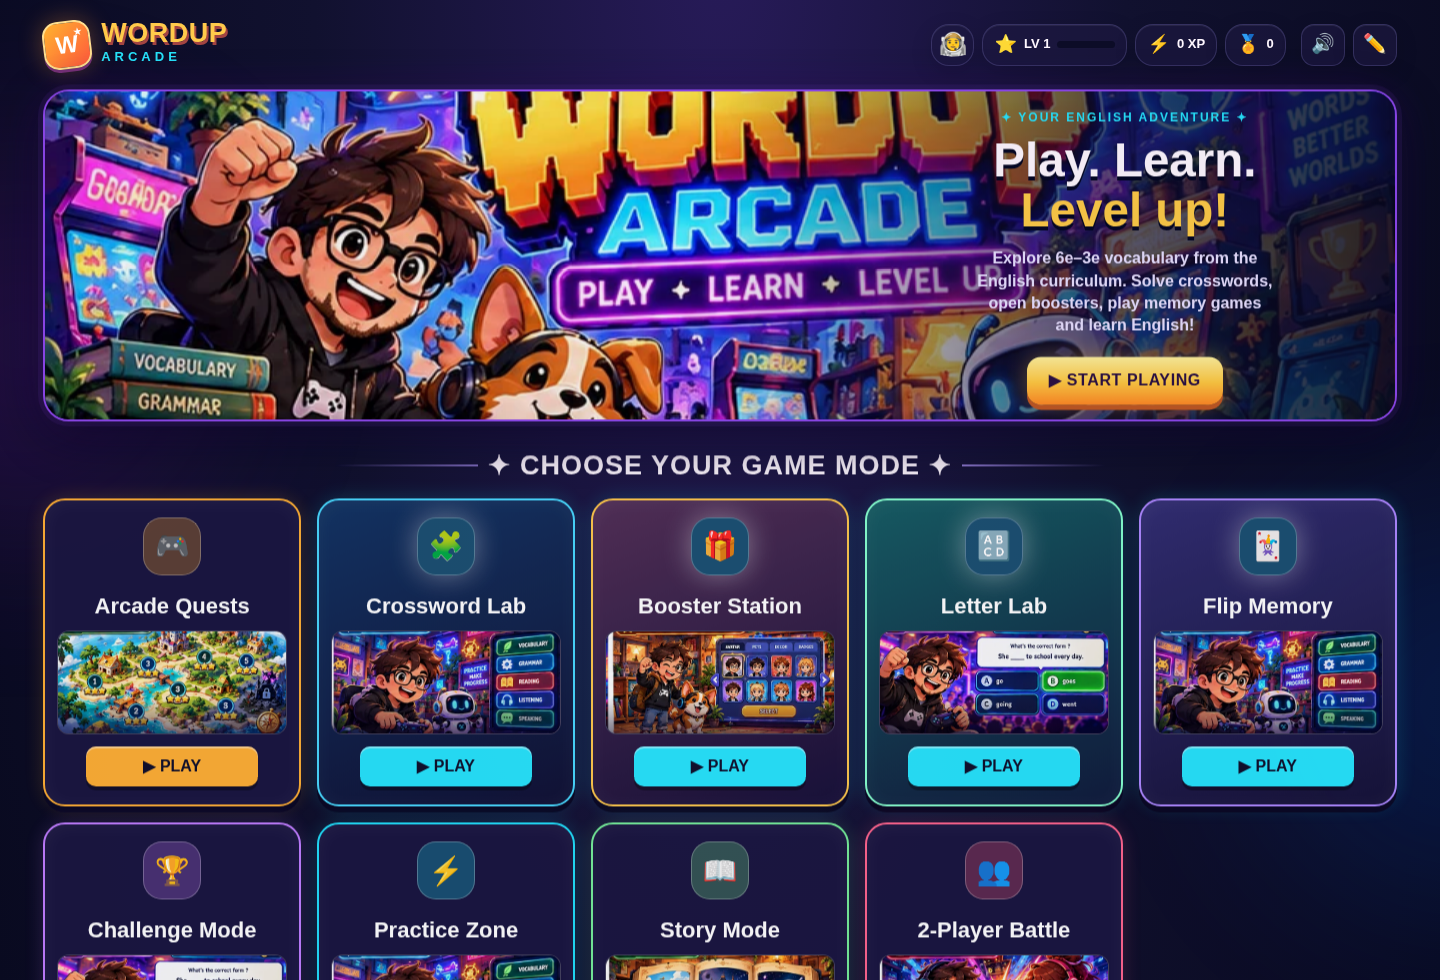
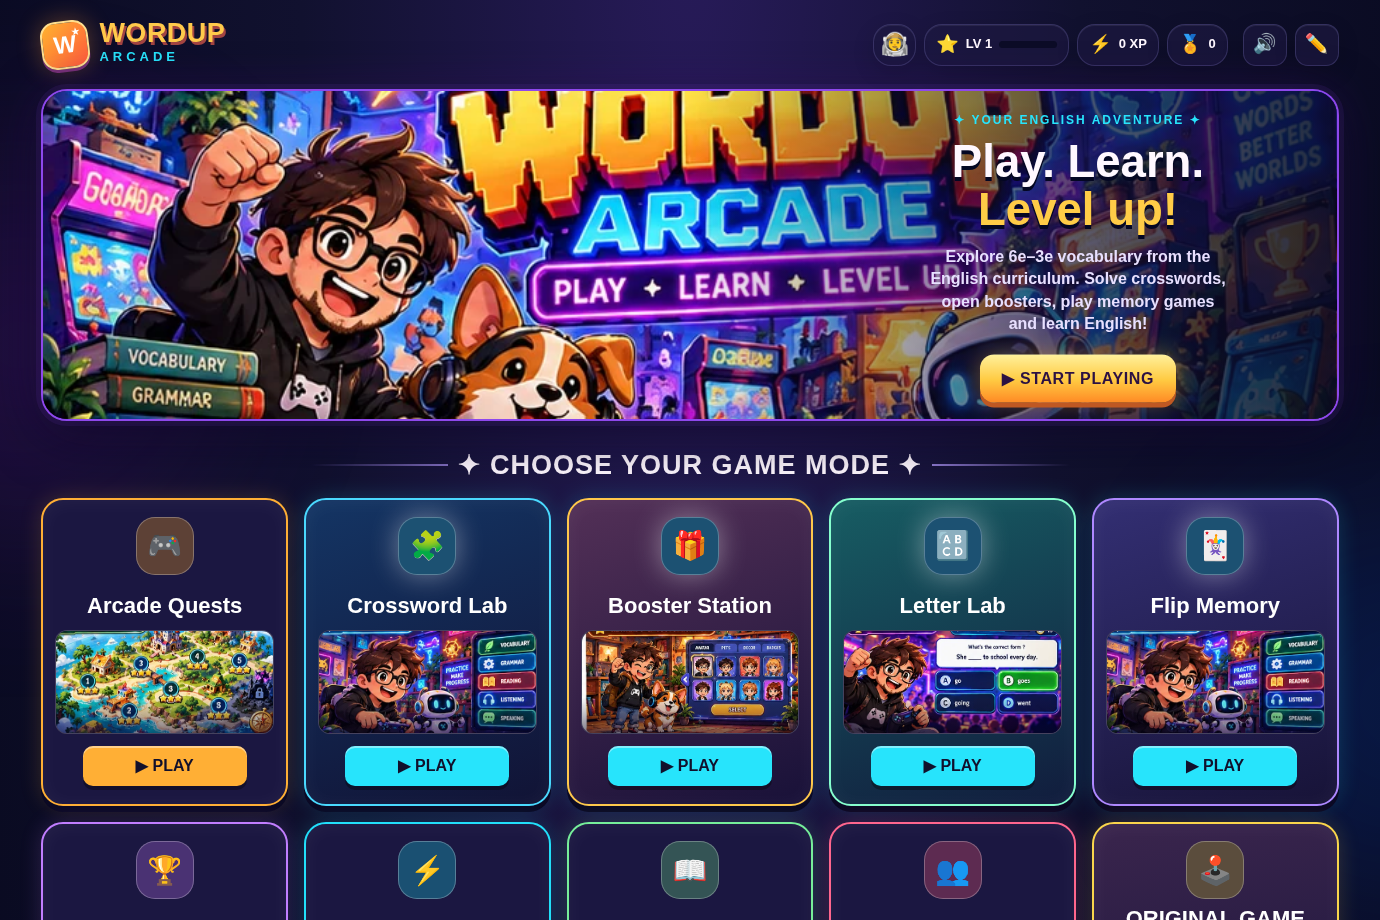
Add files via upload

diff --git a/styles.css b/styles.css
@@ -81,3 +81,10 @@
 .classic-game-tile:hover,.classic-game-tile:focus-visible{transform:translateY(-4px);border-color:#ffda44}
 .classic-game-tile>span{font-size:43px}.classic-game-tile strong{font-size:1.24rem}.classic-game-tile small{font-size:.9rem;color:#bcd0ff;flex:1}.classic-game-tile b{color:#ffdc44;font-size:.9rem}
 @media(max-width:600px){.classic-portal-hero{padding:22px;min-height:275px}.classic-games-grid{grid-template-columns:repeat(2,minmax(0,1fr));gap:9px}.classic-game-tile{min-height:168px;padding:11px}.classic-game-tile small{font-size:.76rem}.classic-game-tile strong{font-size:1rem}}
+
+/* V4.1 · Author lockup directly beneath WORDUP title */
+.logo .brand-wordmark{display:flex;flex-direction:column;align-items:flex-start;justify-content:center;gap:0;min-width:0}
+.logo .brand-byline{display:flex;align-items:center;gap:7px;margin-top:5px;min-height:36px}
+.logo .brand-byline>span{font:italic 700 12px/1 var(--body);color:#dfc9ff;text-transform:lowercase;letter-spacing:1.5px}
+.logo .brand-byline img{width:54px;height:auto;display:block;object-fit:contain;filter:drop-shadow(0 1px 3px rgba(255,255,255,.25))}
+@media(max-width:560px){.logo .brand-byline{margin-top:3px;min-height:31px}.logo .brand-byline img{width:48px}.logo strong{font-size:24px}.logo-mark{width:43px;height:43px}}

diff --git a/classic-arcade.css b/classic-arcade.css
@@ -43,3 +43,8 @@ body:not([data-view="home"]):not([data-view="arcade"]):not([data-view="onboardin
 @media(min-width:800px){.games{grid-template-columns:repeat(4,minmax(0,1fr))}.games .wide{grid-column:span 2}.map{grid-template-columns:repeat(3,minmax(0,1fr))}.actions{grid-template-columns:repeat(3,minmax(0,1fr))}.actions .primary{grid-column:span 3}.mem{grid-template-columns:repeat(4,minmax(0,1fr))}}
 @media(max-width:700px){.retro-banner{margin:12px 10px 0;padding:17px;min-height:170px}.retro-banner p{font-size:.83rem}.retro-top{padding:9px 10px}.retro-flag{display:none}.retro-brand{font-size:.85rem}.app{padding:14px 12px 115px}}
 @media(prefers-reduced-motion:reduce){*,*::before,*::after{animation-duration:.001ms!important;transition-duration:.001ms!important}}
+
+/* V4.1 · Creator credit beneath original Word Up! onboarding title */
+.classic-brand-byline{display:flex;align-items:center;justify-content:center;gap:10px;margin:0 auto 15px}
+.classic-brand-byline>span{font:italic 700 15px var(--body);color:#d5c9ff;letter-spacing:1.5px}
+.classic-brand-byline img{display:block;width:83px;height:auto;filter:drop-shadow(0 3px 8px #0006)}

diff --git a/classic.html b/classic.html
@@ -945,7 +945,7 @@ function go(v, arg) {
 /* ================== ONBOARDING ================== */
 var OB = { name: '', avatar: '🦊', cls: '6e', target: 1 };
 function renderOnboarding() {
-  var h = '<div class="logo">Word <span>Up!</span></div><p style="text-align:center;margin:0 0 18px" class="muted">Collectionne les mots anglais du collège. Écoute-les, joue avec, fais-les évoluer.</p>';
+  var h = '<div class="logo">Word <span>Up!</span></div><div class="classic-brand-byline"><span>by</span><img src="assets/brot2you-app-logo.png" alt="BROT2YOU APP" width="85" height="63"></div><p style="text-align:center;margin:0 0 18px" class="muted">Collectionne les mots anglais du collège. Écoute-les, joue avec, fais-les évoluer.</p>';
   h += '<div class="stk" style="padding:18px">';
   h += '<h2 style="font-size:1.3em">Ton prénom ou pseudo</h2><input type="text" id="ob-name" maxlength="18" value="' + esc(OB.name) + '" placeholder="ex. Léa" style="width:100%;margin:8px 0 16px" autocomplete="off">';
   h += '<h2 style="font-size:1.3em">Ton avatar</h2><div class="pickers" style="margin:8px 0 16px">';

diff --git a/index.html b/index.html
@@ -12,7 +12,7 @@
   <div class="glow glow-a" aria-hidden="true"></div><div class="glow glow-b" aria-hidden="true"></div>
   <div class="app-shell">
     <header class="topbar">
-      <button id="home-btn" class="logo" aria-label="WORDUP Arcade home"><span class="logo-mark">W<span>★</span></span><span><strong>WORDUP</strong><small>ARCADE</small></span></button>
+      <button id="home-btn" class="logo" aria-label="WORDUP Arcade home"><span class="logo-mark">W<span>★</span></span><span class="brand-wordmark"><strong>WORDUP</strong><small>ARCADE</small><span class="brand-byline"><span>by</span><img src="assets/brot2you-app-logo.png" alt="BROT2YOU APP" width="58" height="43"></span></span></button>
       <div class="top-stats" aria-label="Player progress">
         <div class="stat-pill avatar-pill" id="avatar-head">🧑🚀</div>
         <div class="stat-pill"><span>⭐</span><b id="level-head">LV 1</b><div class="level-meter"><i id="level-meter"></i></div></div>

diff --git a/README.md b/README.md
@@ -23,3 +23,6 @@ All 3,057 vocabulary entries are sourced either from the user-supplied original 
 
 ## Notes
 This is a functional V4 fusion with two connected game rooms (not yet a single unified scoring engine). Original games and progression algorithms remain intact and the design has been reskinned; extensive end-to-end testing can still surface edge cases in the original logic that existed prior to this fusion.
+
+## V4.1 branding update
+The supplied BROT2YOU APP logo has been integrated as a small **by [logo]** credit directly below the WORDUP title in the main arcade header and below the original Word Up! onboarding title. No game logic, vocabulary, local saves or collections were changed. Include `assets/brot2you-app-logo.png` when publishing.
